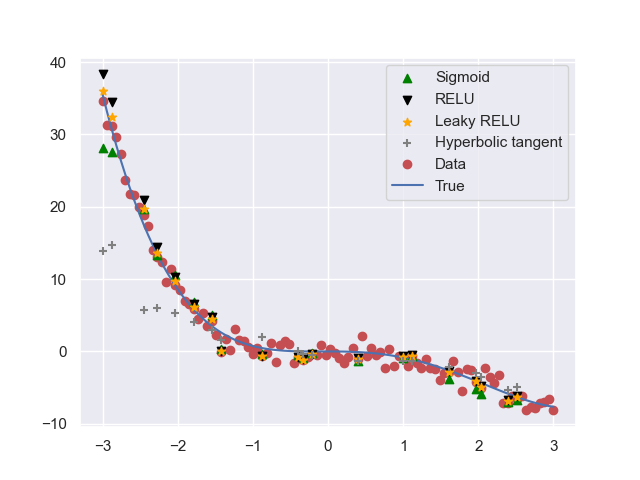
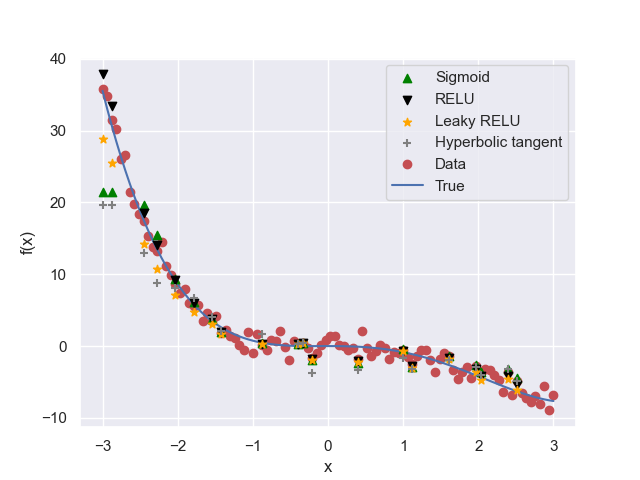
updated hidden activation func comparison plot

diff --git a/part_b_c.py b/part_b_c.py
@@ -83,6 +83,8 @@ def plot_activation_func_comparison(X_train, X_test, target, n_epochs, batches, 
     plt.plot(X[:,0], y, 'ro', label='Data')
     plt.plot(X[:,0], y_true, 'b-', label='True')
     plt.legend()
+    plt.xlabel('x')
+    plt.ylabel('f(x)')
     plt.show()
 
 def compare_model_and_sklearn(X_train, X_test, target_train, true_test, layers, lmbd, eta, batches, n_epochs):
@@ -190,7 +192,7 @@ activation_func = sigmoid
 eta_vals = np.logspace(-5, -2, 4)
 lmbd_vals = np.logspace(-5, -1, 5)
 
-create_eta_lambda_heatmap(X_train, t_train, eta_vals, lmbd_vals, n_epochs, batches)
+# create_eta_lambda_heatmap(X_train, t_train, eta_vals, lmbd_vals, n_epochs, batches)
 plot_activation_func_comparison(X_train, X_test, t_train, n_epochs, batches, eta=0.01, lmbd=0.01)# Train with different activation functions
-compare_model_and_sklearn(X_train, X_test, t_train, true_test, layers, lmbd=0.01, eta=0.01, batches=batches, n_epochs=n_epochs) # Compare our model with SciKit Learn
-compare_weight_inits(X_train, X_test, t_train, true_test, eta=0.01, lmbd=0.01, batches=batches, n_epochs=n_epochs) # Compare weight initializations
+# compare_model_and_sklearn(X_train, X_test, t_train, true_test, layers, lmbd=0.01, eta=0.01, batches=batches, n_epochs=n_epochs) # Compare our model with SciKit Learn
+# compare_weight_inits(X_train, X_test, t_train, true_test, eta=0.01, lmbd=0.01, batches=batches, n_epochs=n_epochs) # Compare weight initializations
